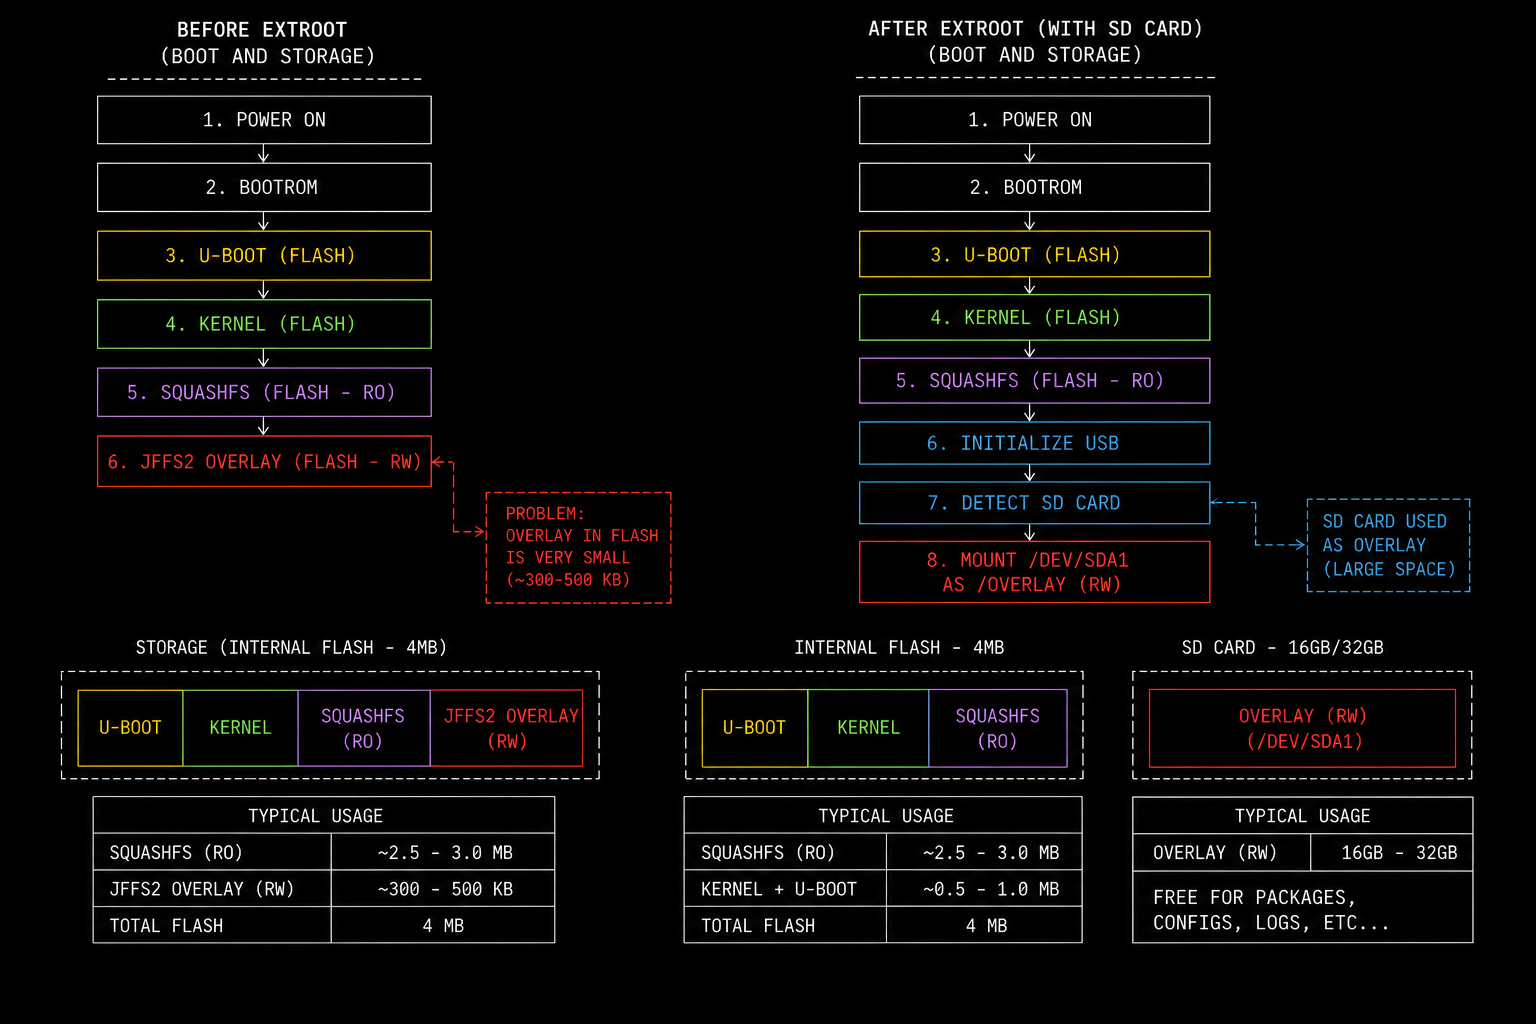
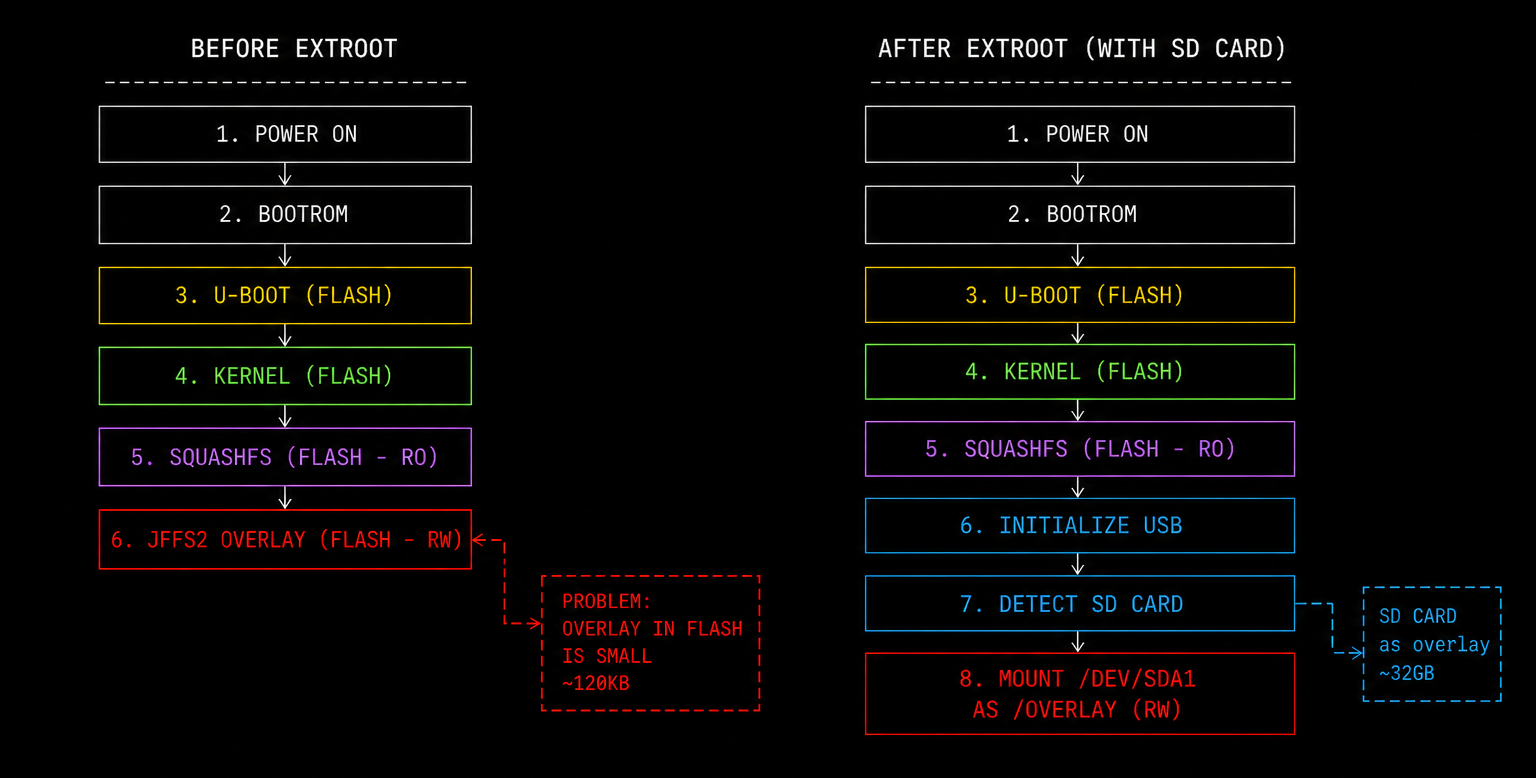
MR3220 extroot process detailed

Changed region(s): [[0.0312, 0.0, 0.9688, 0.9563]]

diff --git a/config.js b/config.js
@@ -119,10 +119,13 @@ const SITE_CONFIG = {
         { type: "text", value: "Some people formatted the SD card directly on the router, but I preferred doing it on my PC since it saves flash memory space (and build issues) and in the end works exactly the same way.", align: "justify"},
         { type: "code", lang: "bash", value: "lsblk\nmkfs.ext4 /dev/sdX1" },
         { type: "text", value: "The next steps are described in detail in \"vladikoms-livejournal\" blog. Please visit it for more information of the process.", align: "justify"},
+        { type: "text", value: "All credits to Vladikoms blog on the following code", bold: true},
+        { type: "text", value: "After formating the flash drive with EXT4 fs, connect it to the router and follow the commands:", align: "justify"},
+        { type: "code", lang: "bash-router", value: "//Mount the USB drive\nmount /dev/sda1 /mnt/usb\n\n//Check if its mounted\ndf -h\n\n//Copy the /overlay partition to the flash drive\ncp /overlay/* /mnt/usb -a\n\n//Edit fstab file\nvi /etc/config/fstab\n\n//Edit the 'mount' section adding the following\n  config 'mount'\n  option target /overlay\n  option device /dev/sda1\n  optionfstype ext4\n  option options rw,sync\n  option enabled 1\n  option enabled_fsck o\n\n//Enable autostart of fstab when router reboots\n/etc/init.d/fstab enable\n\n//Restart the router\nreboot\n\n//Check result\ndf -h" },
         { type: "text", value: "After extroot", bold: true, size: "large" },
         { type: "text", value: "Check that the hardware booted correctly and loaded the necessary packages. Also check that the /overlay now is being detected. Everything is done via SSH using PuTTY, since the web GUI has been removed.", align: "justify"},
-        { type: "image", src: "assets/projects/project_mr3220/bash_overlay.jpeg", caption: "OpenWrt terminal via SSH"},
         { type: "code", lang: "bash", value: "opkg list-installed" },
+        { type: "image", src: "assets/projects/project_mr3220/bash_overlay.jpeg", caption: "OpenWrt terminal via SSH"},
         { type: "text", value: "Overlay", bold: true, size: "large" },
         { type: "text", value: "Basically, the overlay is the RW (Read-Write) part of the flash. This diagram shows before and after mounting the overlay on the SD card.", align: "justify"},
         { type: "image", src: "assets/projects/project_mr3220/extroot.png", caption: "Before and after extroot"},
